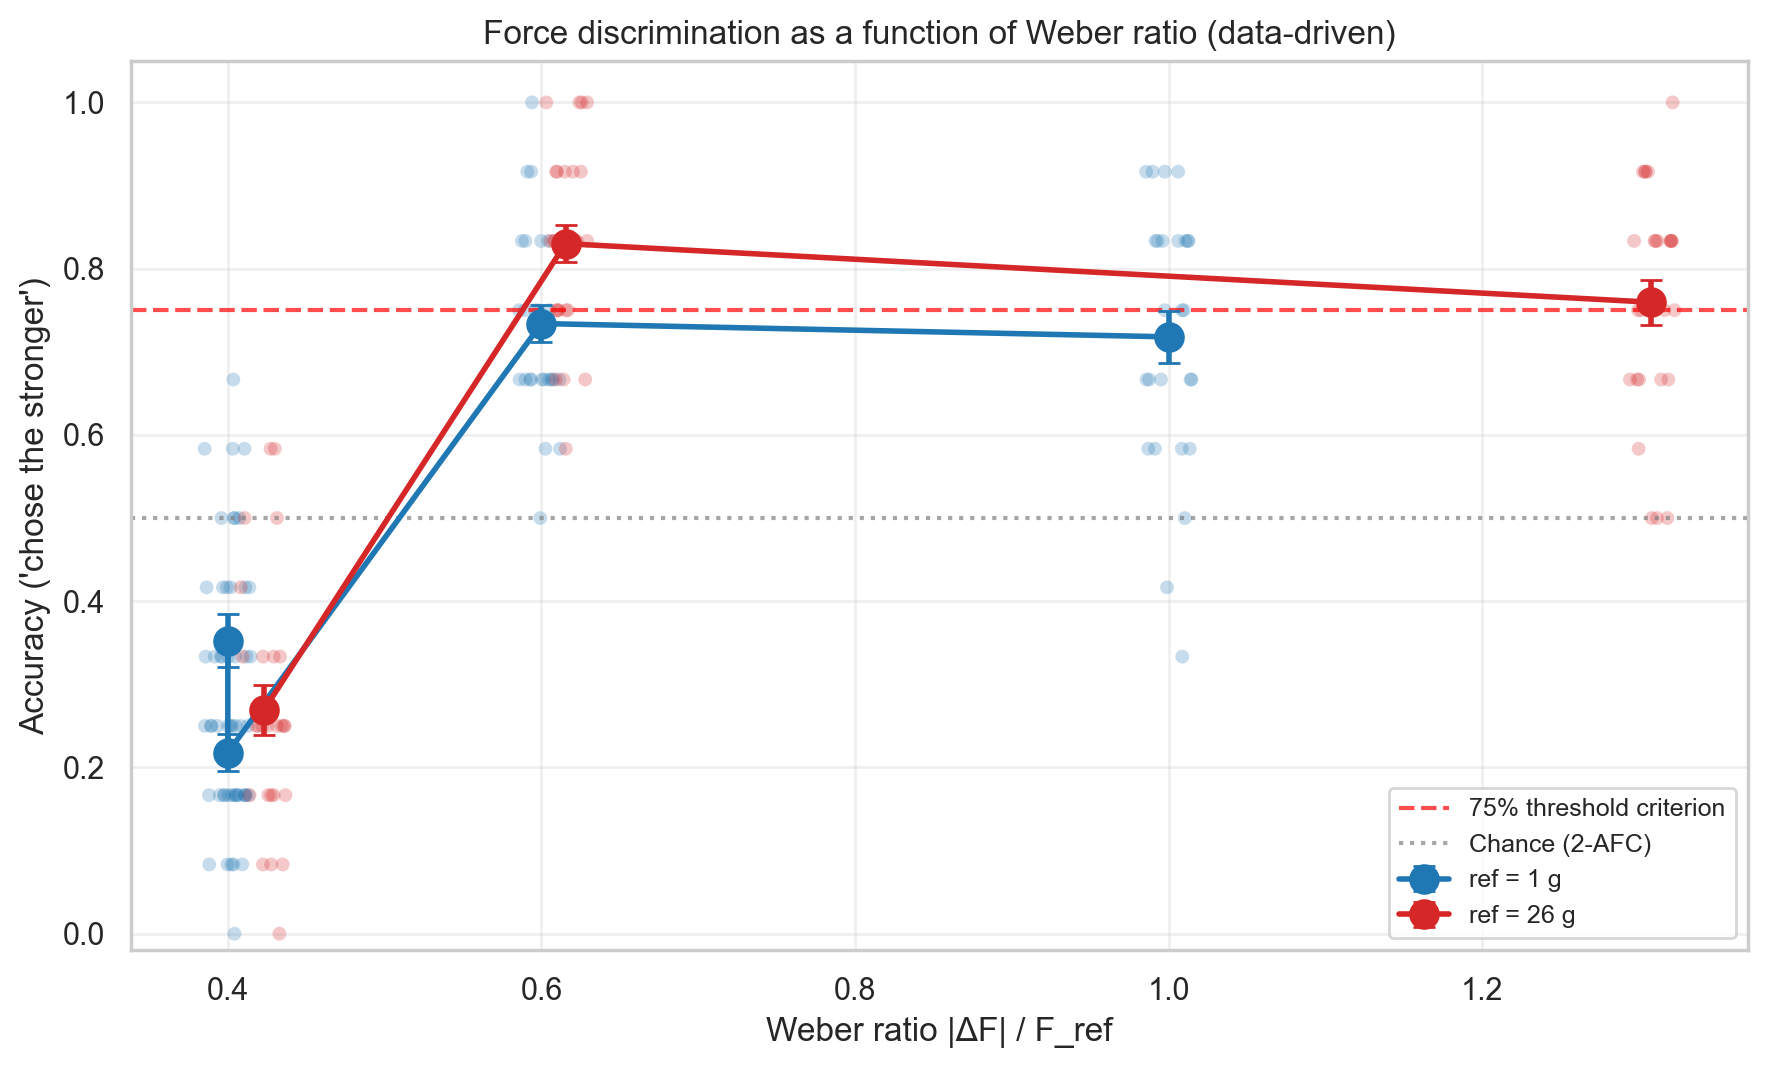
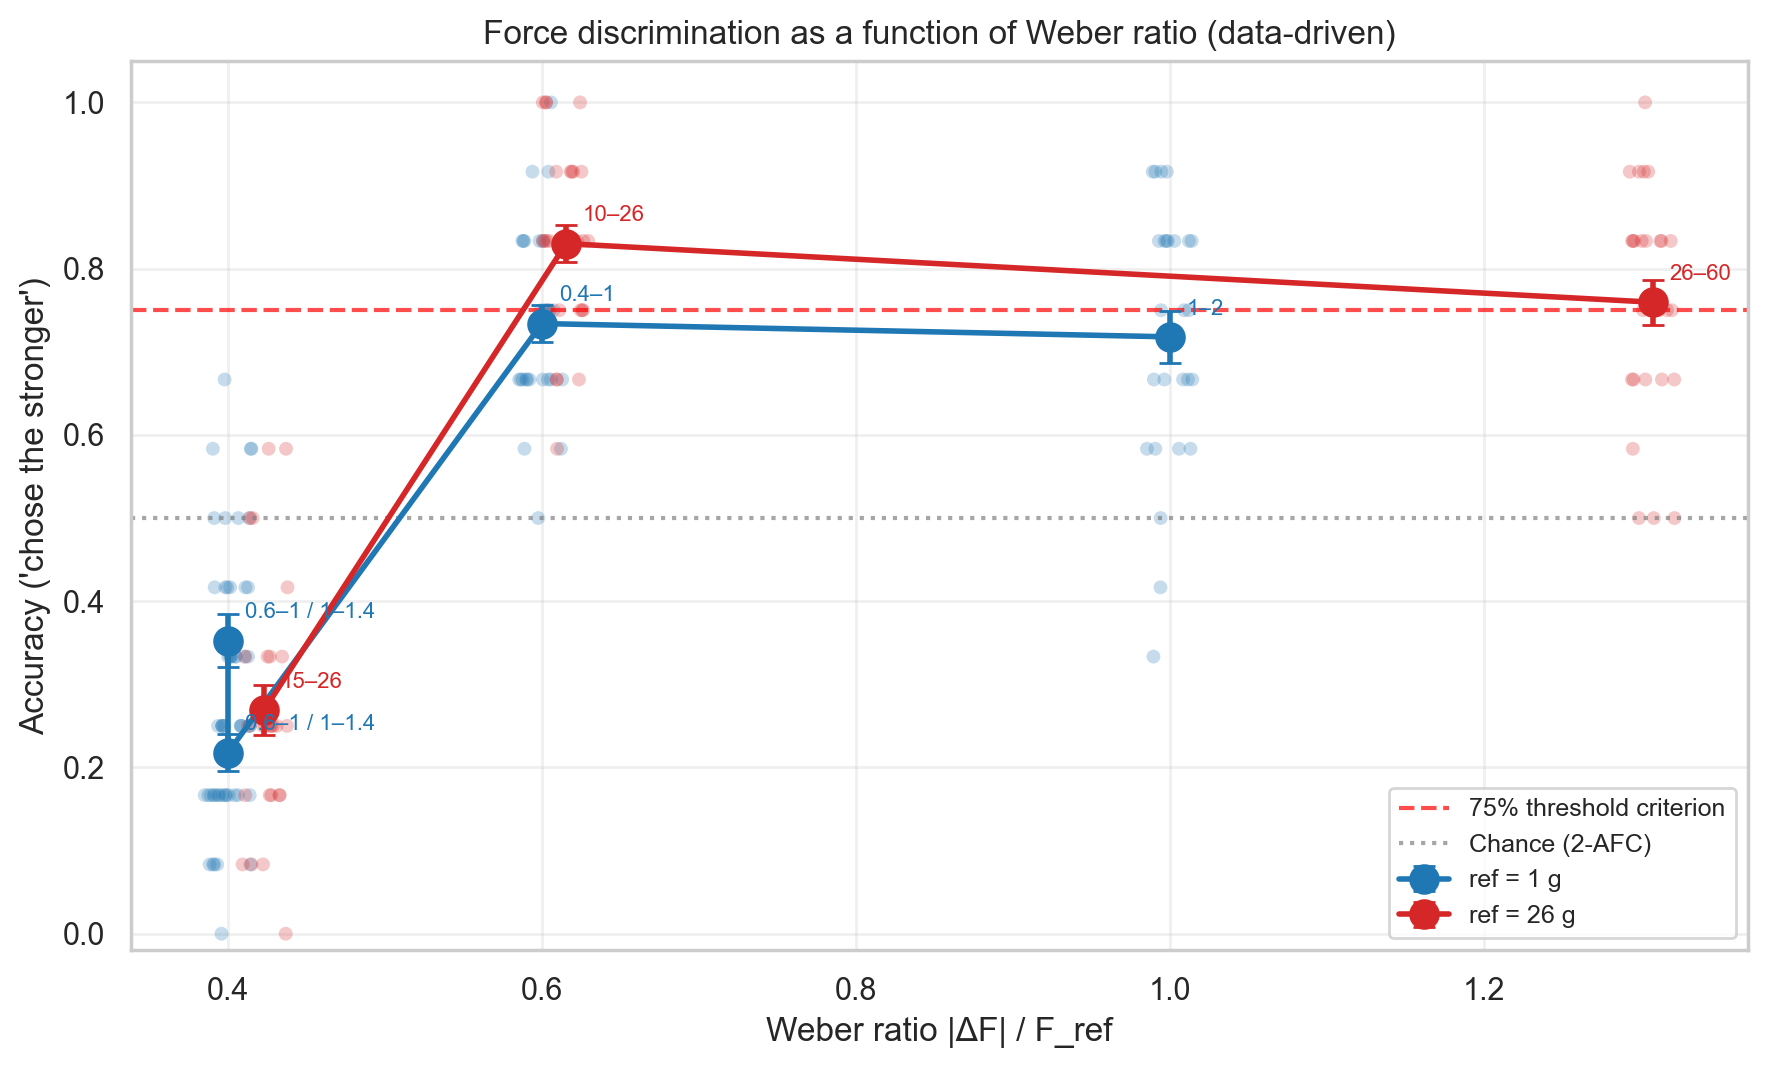
5/13 update 4:00pm

diff --git a/Analysis/ATD_Stats.py b/Analysis/ATD_Stats.py
@@ -1,3 +1,4 @@
+import os
 import pandas as pd
 import numpy as np
 import matplotlib.pyplot as plt
@@ -7,6 +8,10 @@ import statsmodels.formula.api as smf
 import warnings
 
 warnings.filterwarnings("ignore")
+
+SCRIPT_DIR = os.path.dirname(os.path.abspath(__file__))
+FIG_DIR = os.path.join(SCRIPT_DIR, "figures")
+os.makedirs(FIG_DIR, exist_ok=True)
 
 
 def build_pairwise_lme_p_matrices(df_input, subject_col, area_order, force_values):
@@ -71,6 +76,151 @@ def gender_lme_pvalue(subset, subject_col, score_col="Relative_Score", gender_co
         return float(result.pvalues[col]), ref_g, other_g
     except Exception:
         return np.nan, ref_g, other_g
+
+
+def lme_area_pair_contrast(df_in, sub_col, ref_area, target_area):
+    """
+    Trial-level LME on two areas only:
+    Relative_Score ~ C(Area, ref) + C(Force_Val), random intercept ~ Subject.
+    Coefficient = mean(target) - mean(ref), conditional on Force effects.
+    """
+    sub = df_in[df_in["Area"].isin([ref_area, target_area])].copy()
+    sub = sub.dropna(subset=[sub_col, "Relative_Score", "Area", "Force_Val"])
+    if len(sub) < 10 or sub[sub_col].nunique() < 2 or sub["Area"].nunique() < 2:
+        return None
+    formula = (
+        f"Relative_Score ~ C(Area, Treatment(reference='{ref_area}')) + C(Force_Val)"
+    )
+    try:
+        res = smf.mixedlm(formula, sub, groups=sub[sub_col]).fit()
+        col = f"C(Area, Treatment(reference='{ref_area}'))[T.{target_area}]"
+        if col not in res.params.index:
+            return None
+        coef = float(res.params[col])
+        pval = float(res.pvalues[col])
+        ci_row = res.conf_int().loc[col]
+        lo, hi = float(ci_row[0]), float(ci_row[1])
+        return {
+            "label": f"{target_area} − {ref_area}",
+            "coef": coef,
+            "ci_lo": lo,
+            "ci_hi": hi,
+            "p": pval,
+        }
+    except Exception:
+        return None
+
+
+def _star_from_p(p):
+    if p < 0.001:
+        return "***"
+    if p < 0.01:
+        return "**"
+    if p < 0.05:
+        return "*"
+    return "n.s."
+
+
+def subject_mean_accuracy_long(df_in, sub_col, area_first, area_second):
+    """Per-subject mean accuracy in each area (trials pooled across forces in df_in)."""
+    sub = df_in[df_in["Area"].isin([area_first, area_second])].dropna(
+        subset=[sub_col, "Area", "Relative_Score"]
+    )
+    if sub.empty:
+        return pd.DataFrame(columns=[sub_col, "Area", "accuracy", "contrast"])
+    g = (
+        sub.groupby([sub_col, "Area"], as_index=False)["Relative_Score"]
+        .mean()
+        .rename(columns={"Relative_Score": "accuracy"})
+    )
+    g["contrast"] = f"{area_first} vs {area_second}"
+    return g
+
+
+def build_contrast_tables(df_in, sub_col, pair_specs):
+    """
+    pair_specs: list of (area_first, area_second).
+    LME: ref = outer area, coef = inner − outer, + C(Force_Val), RE subject.
+    """
+    plot_parts = []
+    lme_by_label = {}
+    for a1, a2 in pair_specs:
+        label = f"{a1} vs {a2}"
+        plot_parts.append(subject_mean_accuracy_long(df_in, sub_col, a1, a2))
+        lme_by_label[label] = lme_area_pair_contrast(df_in, sub_col, a2, a1)
+    plot_df = pd.concat(plot_parts, ignore_index=True) if plot_parts else pd.DataFrame()
+    return plot_df, lme_by_label
+
+
+AREA_PALETTE = {
+    "A": "#66c2a5",
+    "B": "#3288bd",
+    "C": "#5e4fa2",
+    "D": "#9e0142",
+    "E": "#fdae61",
+    "F": "#d53e4f",
+}
+
+
+def plot_accuracy_contrast_panel(ax, plot_df, lme_by_label, title):
+    """Y = accuracy (%); grouped boxplot by contrast (two areas); LME p from trial-level model."""
+    order = list(lme_by_label.keys())
+    if plot_df.empty or not order:
+        ax.text(0.5, 0.5, "Insufficient data", ha="center", va="center", transform=ax.transAxes)
+        ax.set_title(title, fontsize=12)
+        return
+
+    hue_order = ["A", "B", "C", "D", "E", "F"]
+    pal = {k: v for k, v in AREA_PALETTE.items() if k in plot_df["Area"].unique()}
+
+    sns.boxplot(
+        data=plot_df,
+        x="contrast",
+        y="accuracy",
+        hue="Area",
+        order=order,
+        hue_order=[a for a in hue_order if a in plot_df["Area"].unique()],
+        palette=pal,
+        width=0.72,
+        fliersize=0,
+        linewidth=1.1,
+        ax=ax,
+    )
+
+    ax.axhline(80, color="#c75b5b", linestyle="--", linewidth=1, alpha=0.55)
+    ax.set_ylabel("Accuracy (relative score, %)", fontsize=11)
+    ax.set_xlabel("Contrast (LME: inner − outer area, + Force)", fontsize=10)
+    ax.set_title(title, fontsize=12, fontweight="bold")
+    ax.set_ylim(-5, 118)
+    ax.grid(axis="y", alpha=0.35)
+    handles, labels = ax.get_legend_handles_labels()
+    seen = set()
+    h2, l2 = [], []
+    for hi, li in zip(handles, labels):
+        if li not in seen:
+            seen.add(li)
+            h2.append(hi)
+            l2.append(li)
+    ax.legend(h2, l2, title="Area", frameon=False, loc="lower right")
+    ax.tick_params(axis="x", rotation=20)
+
+    for i, cv in enumerate(order):
+        sub_y = plot_df.loc[plot_df["contrast"] == cv, "accuracy"]
+        if sub_y.empty:
+            continue
+        y_ann = float(sub_y.max()) + 4.0
+        r = lme_by_label.get(cv)
+        if r is None:
+            ax.text(i, y_ann, "LME fail", ha="center", fontsize=8, color="gray")
+        else:
+            ax.text(
+                i,
+                y_ann,
+                f"{_star_from_p(r['p'])}\np={r['p']:.3f}",
+                ha="center",
+                fontsize=8,
+                color="#222",
+            )
 
 
 # 1. 데이터 로드 및 전처리
@@ -256,4 +406,48 @@ else:
         axes[i].set_ylabel("Reference Area")
 
     plt.tight_layout()
+
+    # --- Lateral / proximal: accuracy (y) by contrast; LME p for first−second area ---
+    pairs_left = [("A", "C"), ("A", "D"), ("B", "C"), ("B", "D")]
+    pairs_right = [("E", "C"), ("E", "D"), ("F", "C"), ("F", "D")]
+
+    plot_left, lme_left = build_contrast_tables(df_analysis, sub_col, pairs_left)
+    plot_right, lme_right = build_contrast_tables(df_analysis, sub_col, pairs_right)
+
+    print(
+        "\n[LME contrasts | trial-level: first − second, + Force_Val, RE=Subject]"
+    )
+    for lab, d in list(lme_left.items()) + list(lme_right.items()):
+        if d is None:
+            print(f"  {lab}: LME failed")
+        else:
+            print(
+                f"  {lab}: Δcoef={d['coef']:.3f} [{d['ci_lo']:.3f}, {d['ci_hi']:.3f}], p={d['p']:.4f}"
+            )
+
+    fig_lp, (ax_l, ax_r) = plt.subplots(
+        1, 2, figsize=(14.5, 5.2), gridspec_kw={"wspace": 0.28}
+    )
+    fig_lp.suptitle(
+        "Lateral / proximal accuracy by region contrast (LME inference)",
+        fontsize=13,
+        y=1.02,
+    )
+    plot_accuracy_contrast_panel(
+        ax_l,
+        plot_left,
+        lme_left,
+        "A–C, A–D, B–C, B–D",
+    )
+    plot_accuracy_contrast_panel(
+        ax_r,
+        plot_right,
+        lme_right,
+        "E–C, E–D, F–C, F–D",
+    )
+    plt.tight_layout()
+    out_lp = os.path.join(FIG_DIR, "lateral_proximal_accuracy.png")
+    fig_lp.savefig(out_lp, dpi=220, bbox_inches="tight", facecolor="white")
+    print(f"\nSaved: {out_lp}")
+
     plt.show()

diff --git a/Analysis/(FD)Weber.py b/Analysis/(FD)Weber.py
@@ -85,6 +85,28 @@ print(f"    Reference values: {sorted(df['Reference_n'].unique())}")
 print(f"    Weber ratios: {sorted(df['weber_ratio'].round(2).unique())}")
 
 
+def force_pair_label(ref, wr, source_df=df, comp_filter=None):
+    """Return compact label of (min–max) force pairs for a given (ref, weber_ratio).
+
+    comp_filter: None | 'heavier' | 'lighter' to restrict by comparison direction.
+    Same `weber_ratio` can map to multiple physical pairs (e.g. ref=1, wr=0.4 →
+    {(0.6, 1), (1, 1.4)}), so the label joins them with ' / '.
+    """
+    sub = source_df[
+        (source_df["Reference_n"] == ref)
+        & (np.isclose(source_df["weber_ratio"], wr, atol=1e-3))
+    ]
+    if comp_filter == "heavier":
+        sub = sub[sub["Comparison_n"] > sub["Reference_n"]]
+    elif comp_filter == "lighter":
+        sub = sub[sub["Comparison_n"] < sub["Reference_n"]]
+    pairs = set()
+    for _, r in sub.iterrows():
+        a, b = sorted([r["Reference_n"], r["Comparison_n"]])
+        pairs.add((round(a, 2), round(b, 2)))
+    return " / ".join(f"{a:g}–{b:g}" for a, b in sorted(pairs))
+
+
 # ============================================================
 # 2. DATA-DRIVEN WEBER SCATTER (replaces hardcoded version)
 # ============================================================
@@ -115,12 +137,26 @@ for ref, sub in subj_agg.groupby("Reference_n"):
     ax.scatter(sub["weber_ratio"] + jitter, sub["accuracy"],
                s=25, alpha=0.25, color=color, edgecolor="none", zorder=2)
 
-# (b) Group mean ± SEM
+# (b) Group mean ± SEM, annotated with the actual force pair(s)
 for ref, sub in grp_agg.groupby("Reference_n"):
     color = palette.get(ref, "gray")
     ax.errorbar(sub["weber_ratio"], sub["mean_acc"], yerr=sub["sem_acc"],
                 marker="o", color=color, ms=10, lw=2, capsize=4,
                 label=f"ref = {ref:g} g", zorder=4)
+    for _, row in sub.iterrows():
+        lbl = force_pair_label(ref, row["weber_ratio"])
+        if not lbl:
+            continue
+        ax.annotate(
+            lbl,
+            (row["weber_ratio"], row["mean_acc"]),
+            xytext=(6, 8),
+            textcoords="offset points",
+            fontsize=8,
+            color=color,
+            ha="left",
+            zorder=5,
+        )
 
 ax.axhline(0.75, ls="--", color="red", alpha=0.7, label="75% threshold criterion")
 ax.axhline(0.50, ls=":",  color="gray", alpha=0.7, label="Chance (2-AFC)")
@@ -206,6 +242,21 @@ for ax, ref in zip(axes, sorted(df["Reference_n"].unique())):
         ax.errorbar(dsub["weber_ratio"], dsub["mean_acc"], yerr=dsub["sem_acc"],
                     marker=marker, color=color, ms=9, lw=2, capsize=4,
                     label=f"Comparison {direction} than ref")
+        # annotate each dot with the actual force pair for this direction
+        y_off = 9 if direction == "heavier" else -14
+        for _, row in dsub.iterrows():
+            lbl = force_pair_label(ref, row["weber_ratio"], comp_filter=direction)
+            if not lbl:
+                continue
+            ax.annotate(
+                lbl,
+                (row["weber_ratio"], row["mean_acc"]),
+                xytext=(6, y_off),
+                textcoords="offset points",
+                fontsize=8,
+                color=color,
+                ha="left",
+            )
     ax.axhline(0.75, ls="--", color="red", alpha=0.6)
     ax.axhline(0.50, ls=":",  color="gray", alpha=0.6)
     ax.set_xlabel("Weber ratio |ΔF| / F_ref")
@@ -258,6 +309,19 @@ for ref, sub in grp_agg.groupby("Reference_n"):
     ax.errorbar(sub["weber_ratio"], sub["mean_acc"], yerr=sub["sem_acc"],
                 marker="o", color=color, ms=10, lw=0, capsize=4,
                 label=f"ref={ref:g}g (data)")
+    for _, row in sub.iterrows():
+        lbl = force_pair_label(ref, row["weber_ratio"])
+        if not lbl:
+            continue
+        ax.annotate(
+            lbl,
+            (row["weber_ratio"], row["mean_acc"]),
+            xytext=(6, 8),
+            textcoords="offset points",
+            fontsize=8,
+            color=color,
+            ha="left",
+        )
     # plot fit
     if not np.isnan(k):
         ax.plot(x_smooth, psychometric(x_smooth, k, slope),
